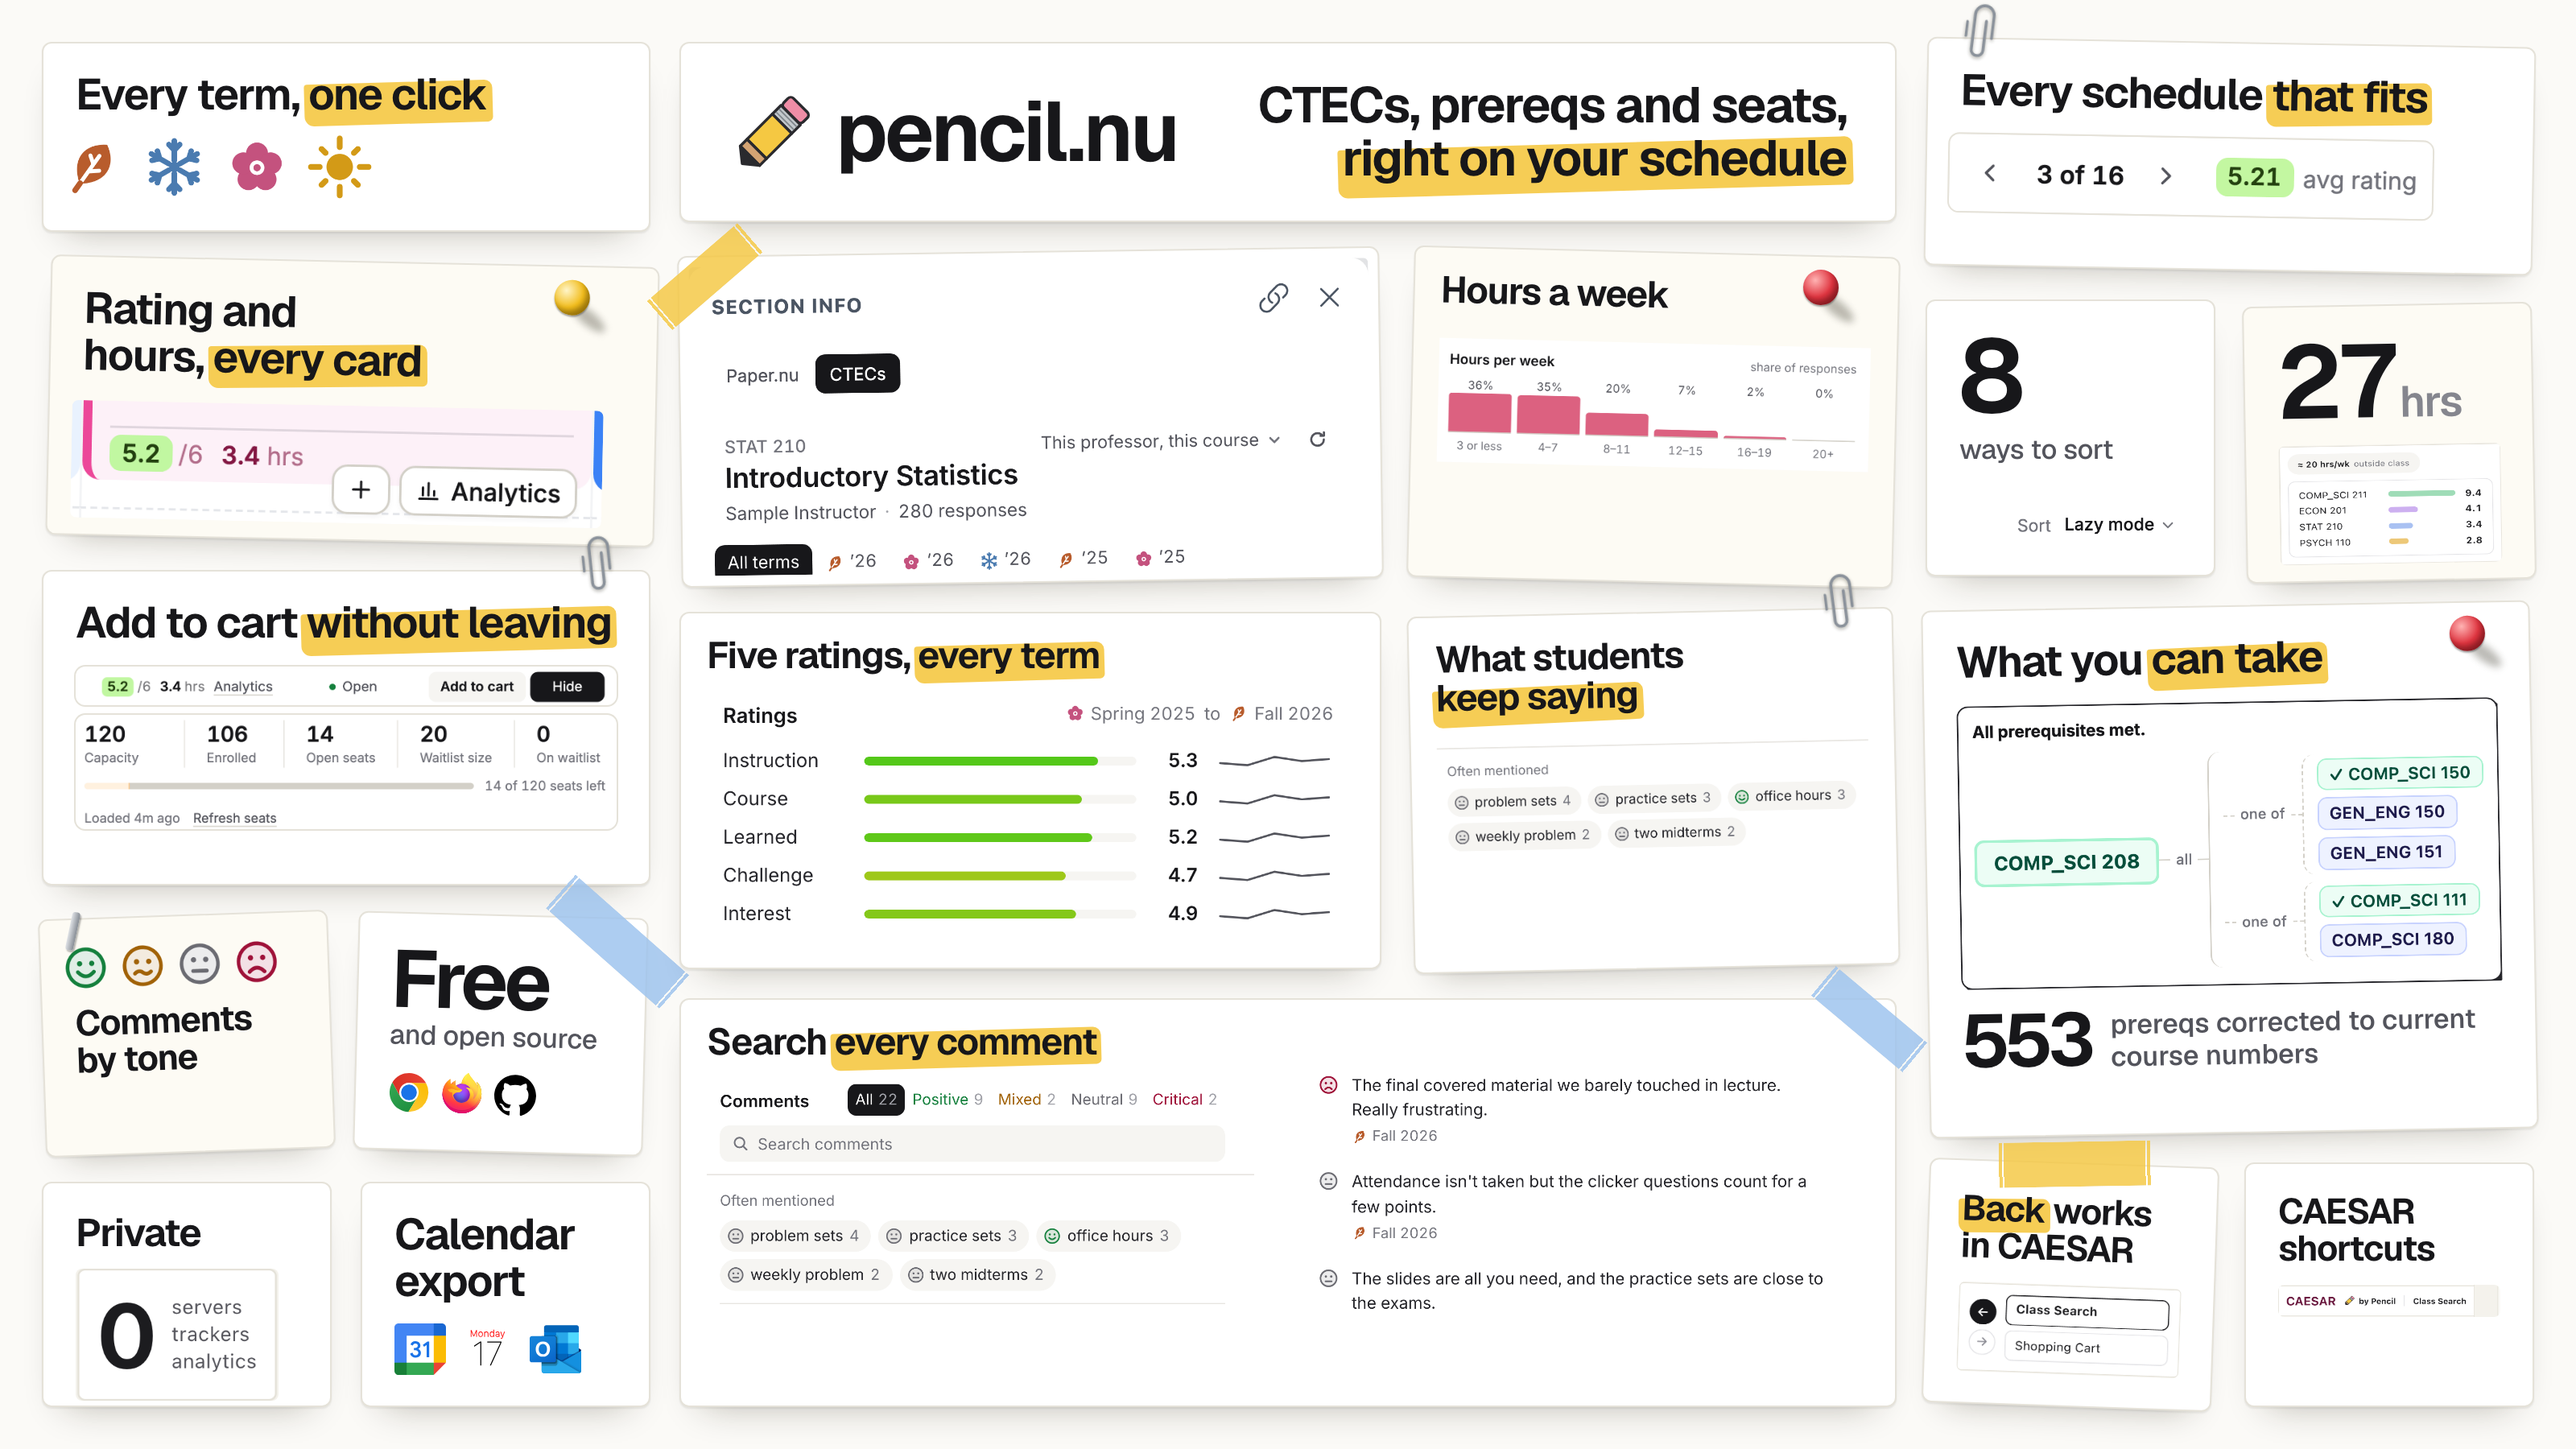
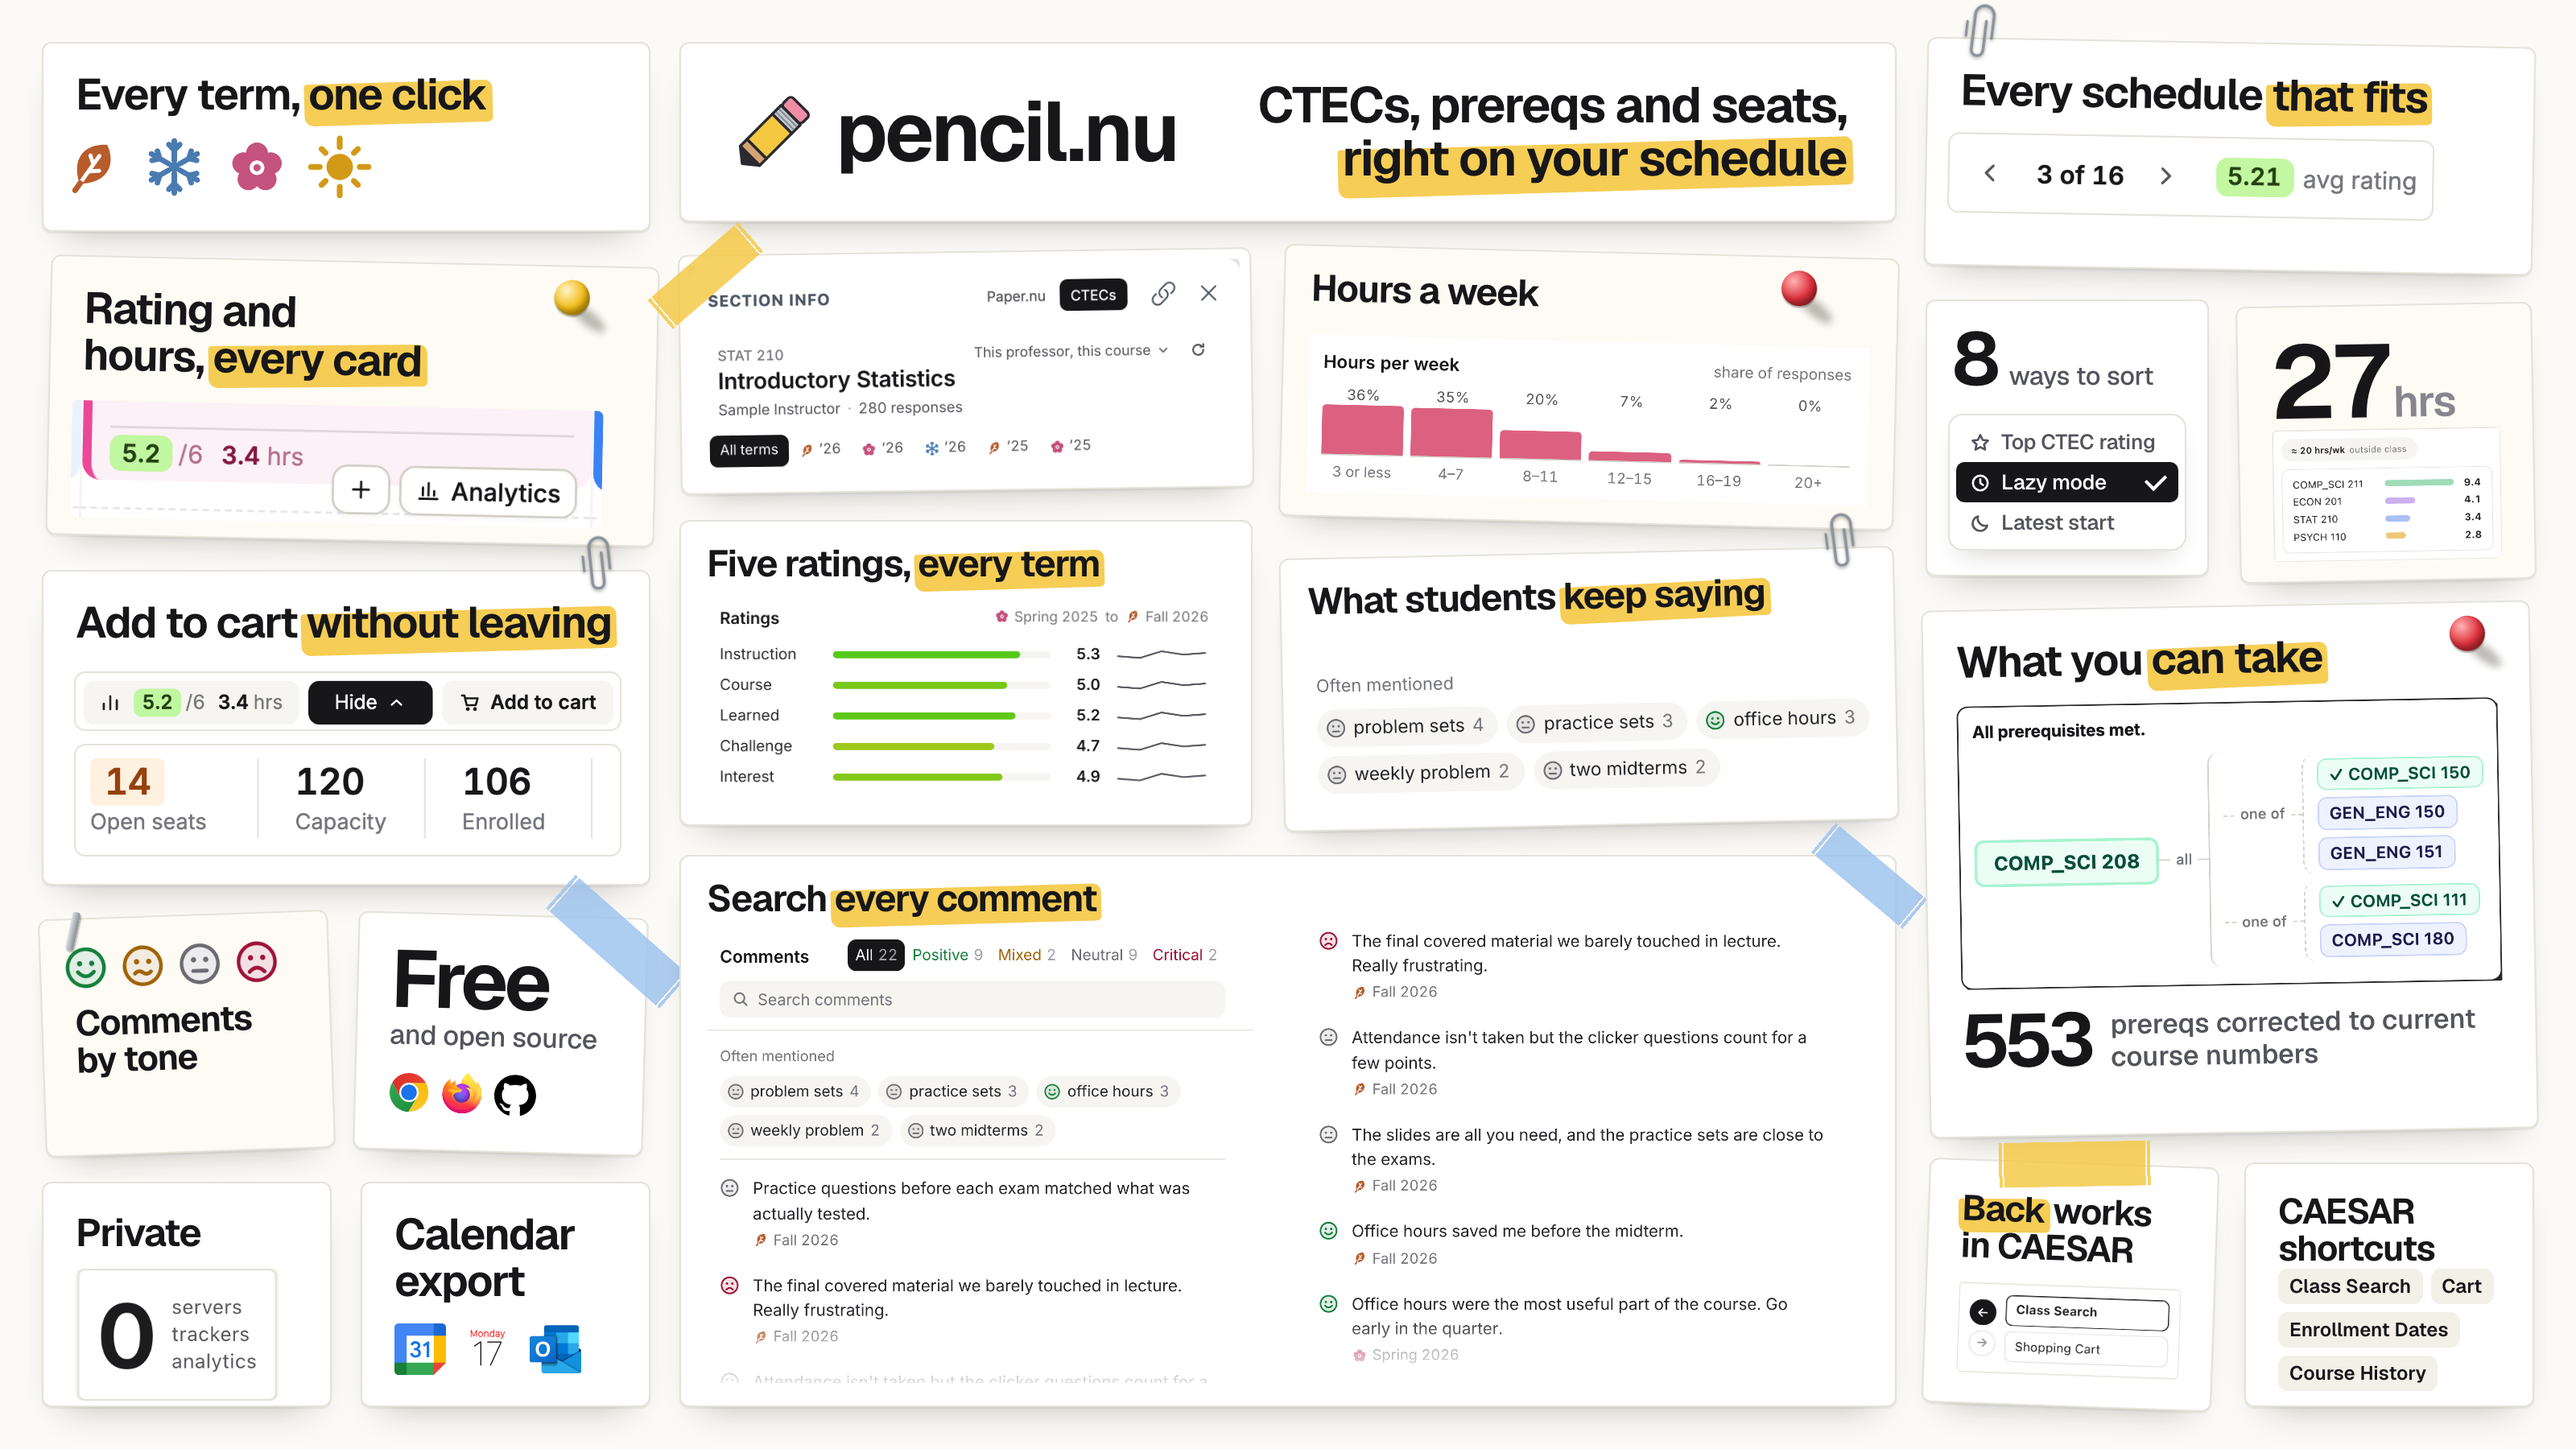
Launch board: show the 1.0.1 class search row and fill every tile (#12)
The Add to cart tile shows the new chip row and seat chip, Section Info has
its tabs on the title line, Hours a week and topic chips fill their tiles,
the sort tile is an open sort menu with icons, and CAESAR shortcuts lists
its links.

diff --git a/promo/launch.html b/promo/launch.html
@@ -41,15 +41,25 @@
   .t-head .wordmark { font-size: 52px; }
   .t-head .say { font-size: 31px; text-align: right; }
   /* The analytics panel, cut into pieces. */
-  .an { flex: 1; min-height: 0; display: grid; grid-template-columns: 436px minmax(0, 1fr); grid-template-rows: auto auto 1fr; gap: 18px; }
+  .an { flex: 1; min-height: 0; display: grid; grid-template-columns: 356px minmax(0, 1fr); grid-template-rows: auto auto minmax(0, 1fr); gap: 18px; }
   .an .tile { padding: 14px 16px; min-width: 0; }
   .an .say { font-size: 23px; }
   .an img { display: block; width: 100%; }
   .a-top { padding: 6px !important; }
   .a-top img { border-radius: 3px; }
   .a-hours img, .a-rates img { margin-top: 8px; }
-  .a-hours img { margin-top: 18px; }
-  .a-com { grid-column: 1 / -1; }
+  .a-hours, .a-topics { display: flex; flex-direction: column; }
+  .a-hours, .a-topics { justify-content: space-between; }
+  .a-hours img { margin-top: 10px; }
+  .a-topics img { width: 100%; margin-top: 10px; }
+  .a-top { grid-area: 1 / 1; } .a-rates { grid-area: 2 / 1; }
+  .stack { grid-area: 1 / 2 / 3 / 3; display: flex; flex-direction: column; gap: 18px; min-width: 0; }
+  .stack > .tile { flex: 1; }
+  .a-com { min-height: 0; grid-column: 1 / -1; display: flex; flex-direction: column; }
+  .a-com .two { flex: 1; min-height: 0; }
+  .a-com .two .crop { height: 100% !important; }
+  .a-com .two { overflow: hidden; }
+  .a-com .two .crop { -webkit-mask-image: linear-gradient(#000 82%, transparent); mask-image: linear-gradient(#000 82%, transparent); }
   .crop { overflow: hidden; margin-top: 8px; }
   .a-topics .crop img { width: 310px; margin-left: -10px; }
   .two { display: flex; gap: 22px; }
@@ -57,8 +67,9 @@
   .two .crop img { width: 350px; margin-left: -10px; }
 
   .t-search { flex: 1; min-height: 0; }
-  .t-search .row { width: 336px; margin-top: 12px; }
-  .t-search .seats { width: 336px; margin-top: 6px; }
+  .t-search { display: flex; flex-direction: column; }
+  .t-search .row { width: 338px; margin-top: auto; }
+  .t-search .seats { width: 338px; margin-top: 10px; }
   .t-prereq { flex: 1; min-height: 0; }
   .t-prereq img { width: 336px; margin-top: 12px; }
   .t-prereq .n { display: flex; align-items: center; gap: 12px; margin-top: 12px; font-size: 17px; line-height: 1.2; font-weight: 550; color: var(--ink-2); }
@@ -69,12 +80,28 @@
   .t-combos img { width: 300px; margin: 12px 0 0 -6px; }
   .t-sort, .t-hours { height: 172px; display: flex; flex-direction: column; }
   .t-sort .big, .t-hours .big { font-size: 64px; }
-  .t-sort img { width: 150px; margin: auto 0 -4px -6px; }
+  .t-sort { padding: 16px; }
+  .t-sort .head { display: flex; align-items: baseline; gap: 8px; }
+  .t-sort .big { font-size: 46px; }
+  .t-sort .cap { margin: 0; font-size: 16px; }
+  .menu { margin: 8px -2px 0; padding: 4px; border-radius: 8px; background: #fff; box-shadow: 0 0 0 1px var(--line), 0 8px 16px -8px rgba(30,25,10,.25); margin-top: auto; }
+  .menu li { list-style: none; display: flex; align-items: center; gap: 6px; padding: 4px 8px; border-radius: 5px; font-size: 13px; font-weight: 550; letter-spacing: -.01em; color: var(--ink-2); white-space: nowrap; }
+  .menu li.on { background: var(--ink); color: #fff; }
+  .menu li.on::after { content: ""; margin-left: auto; width: 10px; height: 6px; border: solid #fff; border-width: 0 0 2px 2px; rotate: -45deg; translate: 0 -2px; }
+  .menu ul { margin: 0; padding: 0; }
+  .menu li svg { width: 14px; height: 14px; flex: none; }
+  .t-hours .art { width: 100%; max-height: none !important; margin-top: auto; }
   .t-553 { height: 154px; display: grid; grid-template-columns: auto 1fr; gap: 16px; align-items: center; }
   .t-553 .big { font-size: 76px; }
   .t-553 .say { font-size: 24px; }
   .t-back, .t-dates, .t-hist, .t-md { height: 152px; }
   .t-back .say, .t-dates .say, .t-hist .say, .t-md .say { font-size: 22px; }
+  .t-back { display: flex; flex-direction: column; }
+  .t-back .art { width: 100%; max-height: none; margin-top: auto; }
+  .t-dates { display: flex; flex-direction: column; }
+  .marks { margin-top: auto; display: flex; flex-wrap: wrap; gap: 5px; }
+  .marks span { font-size: 12px; font-weight: 600; padding: 3px 7px; border-radius: 6px; background: var(--board); color: var(--ink); }
+  .marks .cz { font-weight: 750; color: #6b1e45; background: none; padding-left: 0; font-size: 15px; width: 100%; }
 
   body.store { zoom: .8; }
   body.store .canvas { height: 1000px; }
@@ -151,19 +178,21 @@
         <span class="pin tape yellow short tl"></span>
         <img src="assets/sheet-top.png" alt="">
       </div>
+      <div class="tile a-rates">
+        <p class="say">Five ratings, <span class="hl">every term</span></p>
+        <img src="assets/sheet-rates.png" alt="">
+      </div>
+      <div class="stack">
       <div class="tile a-hours cream" style="--r:1.4deg">
         <span class="pin tack red" style="left:84%"><i></i></span>
         <p class="say">Hours a week</p>
         <img src="assets/sheet-hours.png" alt="">
       </div>
-      <div class="tile a-rates">
-        <p class="say">Five ratings, <span class="hl">every term</span></p>
-        <img src="assets/sheet-rates.png" alt="">
-      </div>
       <div class="tile a-topics" style="--r:-1.2deg">
         <span class="pin clip right"><svg><use href="#clip"/></svg></span>
         <p class="say">What students <span class="hl">keep saying</span></p>
-        <div class="crop" style="height:72px;margin-top:14px"><img src="assets/panel-b.png" alt="" style="margin-top:-146px"></div>
+        <img src="assets/topics-tight.png" alt="">
+      </div>
       </div>
       <div class="tile a-com">
         <span class="pin tape blue short tr"></span>
@@ -184,13 +213,16 @@
     </div>
     <div class="pair">
       <div class="tile t-sort">
-        <p class="big">8</p>
-        <p class="cap">ways to sort</p>
-        <img src="assets/combos-sort.png" alt="">
+        <div class="head"><p class="big">8</p><p class="cap">ways to sort</p></div>
+        <div class="menu"><ul>
+          <li><svg viewBox="0 0 16 16" fill="none" stroke="currentColor" stroke-width="1.5" stroke-linecap="round" stroke-linejoin="round"><path d="M8 2.5l1.7 3.5 3.8.5-2.8 2.6.7 3.8L8 11.1l-3.4 1.8.7-3.8L2.5 6.5l3.8-.5Z"/></svg>Top CTEC rating</li>
+          <li class="on"><svg viewBox="0 0 16 16" fill="none" stroke="currentColor" stroke-width="1.5" stroke-linecap="round" stroke-linejoin="round"><path d="M8 2.75a5.25 5.25 0 1 0 0 10.5a5.25 5.25 0 1 0 0-10.5ZM8 5.25V8l1.9 1.4"/></svg>Lazy mode</li>
+          <li><svg viewBox="0 0 16 16" fill="none" stroke="currentColor" stroke-width="1.5" stroke-linecap="round" stroke-linejoin="round"><path d="M12.9 9.6A5.25 5.25 0 0 1 6.4 3.1a5.25 5.25 0 1 0 6.5 6.5Z"/></svg>Latest start</li>
+        </ul></div>
       </div>
       <div class="tile t-hours cream" style="--r:-1deg; --dy:3px">
         <p class="big">27<small>hrs</small></p>
-        <img class="art" src="assets/art-workload.png" alt="" style="max-height:74px">
+        <img class="art" src="assets/art-workload.png" alt="">
       </div>
     </div>
     <div class="tile t-prereq" style="--r:-1deg">
@@ -209,7 +241,7 @@
       </div>
       <div class="tile t-dates">
         <p class="say">CAESAR shortcuts</p>
-        <img class="art" src="assets/art-header.png" alt="">
+        <div class="marks"><span>Class Search</span><span>Cart</span><span>Enrollment Dates</span><span>Course History</span></div>
       </div>
     </div>
   </section>
